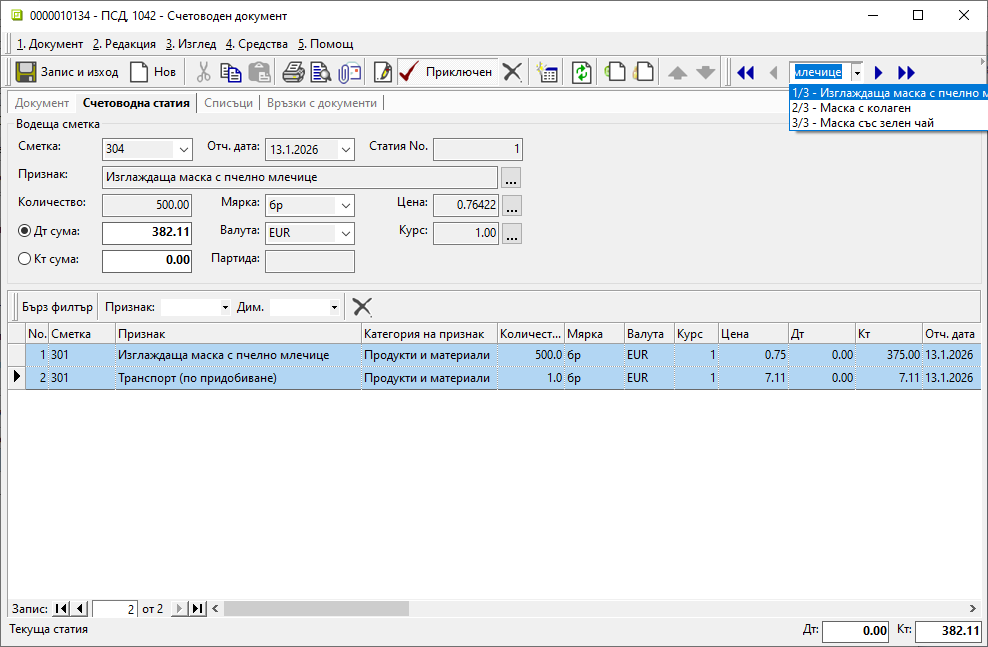
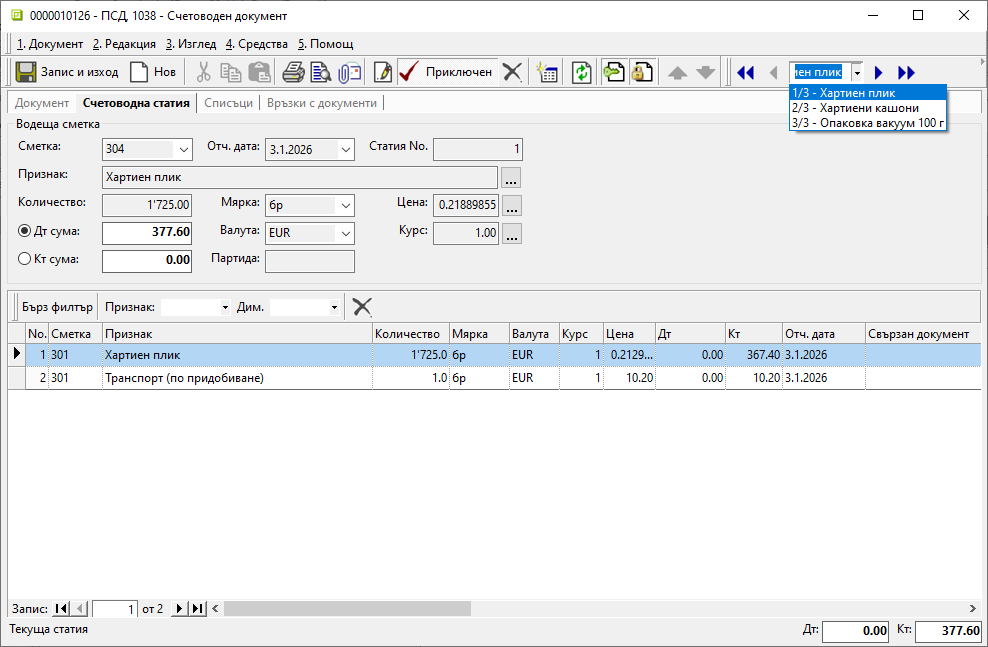
Редактиране линкове и лв.

diff --git a/guide/erp/002-docs/002-trade-system/003-payments/004-bank.md b/guide/erp/002-docs/002-trade-system/003-payments/004-bank.md
@@ -11,17 +11,17 @@
 
 ## **Въведение**
 
-Движенията по банкови сметки се регистрират в системата чрез въвеждане на банкови документи. Системата позволява както ръчно въвеждане на банковите извлечения, така и [импорт](https://docs.unicontsoft.com/guide/erp/005-how-to/001-bank-statement-import.html) на данните. Импортът е възможен, когато има наличен файл с извлечение от банката.  
+Движенията по банкови сметки се регистрират в системата чрез въвеждане на банкови документи. Системата позволява както ръчно въвеждане на банковите извлечения, така и [импорт](../../../005-how-to/001-bank-statement-import.md) на данните. Импортът е възможен, когато има наличен файл с извлечение от банката.  
 
-Извлеченията се въвеждат с отделни записи за всяка една банкова сметка. Сметките трябва да бъдат настроени предварително в **Потребител на продукта** от [**Номенклатури » Контрагенти**](https://docs.unicontsoft.com/guide/erp/001-ref/001-nomenclatures/002-contragents.html). 
+Извлеченията се въвеждат с отделни записи за всяка една банкова сметка. Сметките трябва да бъдат настроени предварително в **Потребител на продукта** от [**Номенклатури » Контрагенти**](../../../001-ref/001-nomenclatures/002-contragents.md).  
 
 ## **Създаване на банков документ**
 
-Процесът по ръчно въвеждане на банков документ е следният:
+Процесът по ръчно въвеждане на банков документ е следният:  
 
 1) От **Търговска система » Банкови документи** чрез десен бутон на мишката върху списъка се избира **Нов документ**. Отваря се празна форма за въвеждане на данни **Банково извлечение**.  
 
-2)  В раздел **Основни** се попълват реквизити:
+2)  В раздел **Основни** се попълват реквизити:  
 
 - **Док. No** - В полето се попълва номер на банковото извлечение. Ако полето се остави празно, системата не попълва автоматичен номер на документа при приключване на извлечението.  
 
@@ -34,11 +34,11 @@
 ![](904-bank1.png){ class=align-center w=15cm }
 
 3) На реда за добавяне на нов запис в поле **Основание за плащане** се отваря падащ списък за избор на предназначение на плащането. Основанията трябва да са предварително дефинирани в **Номенклатури » Референтни номенклатури » Търговска система: Основания за плащане**.  
-Избраното основание определя счетоводната операция, която се генерира при приключване на документа. Необходимо е предварително да бъдат направени настроийки за това от [**Счетоводство » Автоматичен осчетоводител**](https://docs.unicontsoft.com/guide/erp/001-ref/002-accounting/003-acc-wizard.html).  
+Избраното основание определя счетоводната операция, която се генерира при приключване на документа. Необходимо е предварително да бъдат направени настроийки за това в **Счетоводство » Автоматичен осчетоводител**.  
 
 В поле **Контрагент данъчен док.** се избира контрагент, свързан с плащането на реда. Полето се обзавежда автоматично, ако преди това са избрани свързани документи на реда.   
 
-От **Данъчен док.** се отваря форма за избор **Данъчни документи за покупка и продажба**. В списъка с данъчни документи могат да се маркират един или множество записи с покупки и/или продажби. За да се попълнят автоматично и свързаните с тях вътрешнофирмени документи, се използва бутон **[Напред]**.  
+От **Данъчен док.** се отваря форма за избор **Данъчни документи за покупка и продажба**. В списъка с данъчни документи могат да се маркират един или множество записи с покупки и/или продажби. За да се попълнят автоматично и свързаните с тях вътрешнофирмени документи, се използва бутон [**Напред**].  
 По този начин ще се закрият остатъците за плащане по вътрешнофирмения и по данъчния документ.   
 
 Полета **Сума валута** и **Док. сума валута** се попълват със сума, отговаряща на извършеното плащане. Те се обзавеждат автоматично след избор на свързани документи. При частично плащане сумите трябва да се редактират, така че да съответстват на реалното плащане.   
@@ -62,7 +62,7 @@
 
 ![](904-bank2.png){ class=align-center }
 
-За да се генерира коректен счетоводен запис, [**Автоматичен счетоводител**](https://docs.unicontsoft.com/guide/erp/001-ref/002-accounting/003-acc-wizard.html) трябва да е предварително настроен. Свързаният счетоводен документ може да се види от раздел **Връзки с документи**.  
+За да се генерира коректен счетоводен запис, [**Автоматичен счетоводител**](../../../001-ref/002-accounting/003-acc-wizard.md) трябва да е предварително настроен. Свързаният счетоводен документ може да се види от раздел **Връзки с документи**.  
 
 ## **Реквизити**
 
@@ -126,9 +126,6 @@
 
 ## **Свързани статии**
 
-[Как да въведем банкови сметки на контрагент](https://www.unicontsoft.com/cms/node/143)  
-[Как да въведем Начално салдо на банкова сметка](https://www.unicontsoft.com/cms/node/178)  
-[Как да въведем Банково извлечение](https://www.unicontsoft.com/cms/node/38)  
-[Как да въведем Групово плащане](https://www.unicontsoft.com/cms/node/139)  
+[Контрагенти](../../../001-ref/001-nomenclatures/002-contragents.md)  
+[Автоматичен счетоводител](../../../001-ref/002-accounting/003-acc-wizard.md)  
 [Как да импортираме банкови извлечения](../../../005-how-to/001-bank-statement-import.md)  
-[Как да импортираме документи по опис](https://www.unicontsoft.com/cms/node/255)  

diff --git a/guide/erp/002-docs/002-trade-system/003-payments/001-cashdesk.md b/guide/erp/002-docs/002-trade-system/003-payments/001-cashdesk.md
@@ -37,7 +37,7 @@
 
 - **Основание за плащане** – От падащия списък в полето се избира предназначение на плащането.  
 Основанията трябва да са предварително дефинирани в **Номенклатури » Референтни номенклатури » Търговска система: Основания за плащане**.  
-Избраното основание определя счетоводната операция, която се генерира при приключване на документа. Необходимо е предварително да бъдат направени настроийки за това от [**Счетоводство » Автоматичен осчетоводител**](https://docs.unicontsoft.com/guide/erp/001-ref/002-accounting/003-acc-wizard.html).  
+Избраното основание определя счетоводната операция, която се генерира при приключване на документа. Необходими са настроийки за това в **Счетоводство » Автоматичен осчетоводител**.  
 
 - **Свързан док.** - От полето се отваря форма за избор на вътрешнофирмени **Документи за покупка и продажба**. От списъка се маркират един или множество записи, по които е извършено плащане. За да се попълнят автоматично и свързаните с тях данъчни документи, се използва бутон **[Напред]**.  
 По този начин ще се закрият остатъците за плащане по вътрешнофирмения и по данъчния документ.   
@@ -48,7 +48,7 @@
 
 4) Чрез бутон [**Приключен**] от лентата с инструменти документът се валидира и се отваря форма за генерация **Свързани документи**. Системата дава възможност за автоматично създаване на счетоводно записване.  
 
-За да се генерира коректен счетоводен запис, трябва предварително да има съответните настройки в [**Сметкоплан**](https://docs.unicontsoft.com/guide/erp/001-ref/002-accounting/002-chart-of-acc.html) и в [**Автоматичен счетоводител**](https://docs.unicontsoft.com/guide/erp/001-ref/002-accounting/003-acc-wizard.html).  
+> За да се генерира коректен счетоводен запис, трябва предварително да има съответните настройки в [**Сметкоплан**](../../../001-ref/002-accounting/002-chart-of-acc.md) и в [**Автоматичен счетоводител**](../../../001-ref/002-accounting/003-acc-wizard.md).  
 
    - **Генериране на Счетоводно записване** - опция за автоматична генерация на свързан счетоводен документ;  
    Когато за тази опция липсва отметка, системата не генерира счетоводен запис към касовия ордер.  
@@ -120,6 +120,7 @@
 
 ## **Свързани статии**
 
-[Как да въведем Касов ордер](https://www.unicontsoft.com/cms/node/57)  
-[Как да настроим Сметкоплан](../../../001-ref/002-accounting/002-chart-of-acc.md)  
-[Как да настроим Автоматичен осчетоводител](../../../001-ref/002-accounting/003-acc-wizard.md)
+[Референтни номенклатури](../../../001-ref/001-nomenclatures/001-ref-nomenclatures.md)  
+[Връзки между документи](../../001-documents/002-row-crosses.md)  
+[Сметкоплан](../../../001-ref/002-accounting/002-chart-of-acc.md)  
+[Автоматичен осчетоводител](../../../001-ref/002-accounting/003-acc-wizard.md)

diff --git a/guide/erp/004-tips/006-payment-terms.md b/guide/erp/004-tips/006-payment-terms.md
@@ -6,22 +6,23 @@
 
 Системата разполага с различни настройки, касаещи начин на плащане по подразбиране.  
 Едната възможност е за настройка на последния начин на плащане по подразбиране. Системата я прилага отделно за покупки и за продажби. Така в нова покупка или продажба системата предлага последно използвания начин на плащане за съответния тип.  
-Опцията работи, когато за контрагента в документа няма направени индивидуални настройки.  
+
+> Опцията работи, когато за контрагента в документа няма направени индивидуални настройки.  
 
 Друга възможност е индивидуална настройката по контрагенти. В този случай при нов документ системата прилага изрично настроения за контрагента начин на плащане.   
  
 ## Последен начин на плащане
 
-Опцията е достъпна от основното меню в **4.Средства » Настройки...**.  
+Опцията е достъпна от основното меню в **4.Средства » Настройки**.  
 Отваря се форма **Настройки - Dreem Standard**, в която се избира секция **Контейнер**. Настройката се активира/деактивира чрез поставяне/махане на отметка в **Запомняне последен начин на плащане**.  
-Направените промени трябва да бъдат потвърдени с бутон [Ок].
+Направените промени трябва да бъдат потвърдени с бутон [**Ок**].
 
 ![](906-payment-terms1.png){ class=align-center }
 
 ## Начин на плащане по контрагент
 
-Настройката е достъпна във форма за редакция на **Контрагент** в панел **Допълнителни » Реквизити: Продажби**. При нея системата ще предлага този начин на плащане, когато за избрания контрагент се създава нова продажба.  
-Направените промени трябва да бъдат потвърдени с бутон [Запис и изход].  
+Настройката е достъпна от форма за редакция на **Контрагент** в раздел **Допълнителни » Реквизити: Продажби**. При нея системата ще предлага този начин на плащане, когато за избрания контрагент се създава нова продажба.  
+Направените промени трябва да бъдат потвърдени с бутон [**Запис и изход**].  
 
 ![](906-payment-terms2.png){ class=align-center w=15cm }
 

diff --git a/guide/erp/005-how-to/004-allocate-acquisition-costs.md b/guide/erp/005-how-to/004-allocate-acquisition-costs.md
@@ -147,24 +147,24 @@
 **ФПок (доставка на стоки)**
 ```{admonition} Статия
 |Д<sup>т</sup> Сметка|К<sup>т</sup> Сметка|Признак|Сума|
-|-------------|------------|---------------|-------------|
-|301          |            |Шампоан 150 мл |750.00 лв.   |
-|301          |            |Шампоан 530 мл |1666.67 лв.  |
-|301          |            |Шампоан 150 мл |1333.33 лв.  |
-|4531         |            |               |750.00 лв.   |  
-|             |4011        |               |4500.00 лв.  |
+|-------------|------------|----------------------|---------|
+|301          |            |Хартиен плик          |357.20   |
+|301          |            |Хартиени кашони       |1086.49  |
+|301          |            |Опаковка вакуум 100 г |15.00    |
+|4531         |            |                      |291.74   |  
+|             |4011        |                      |1750.43  |
 ```
 
 - При осчетоводяването на фактурата за транспорт, като разход за разпределение, отново участва транзитната сметка.  
-Сумата от нея - 83.33 лв., ще бъде разпределена към доставната стойност на продуктите.
+Сумата от нея - 41.67 евро, ще бъде разпределена към доставната стойност на продуктите.
 
 **ФПок (разходи за разпределение)**
 ```{admonition} Статия
 |Д<sup>т</sup> Сметка|К<sup>т</sup> Сметка|Признак|Сума|
-|-------------|------------|----------|-----------|
-|301          |            |Транспорт |83.33 лв.  |
-|4531         |            |          |16.67 лв.  |  
-|             |4011        |          |100.00 лв. |
+|-------------|------------|----------|-------|
+|301          |            |Транспорт |41.67  |
+|4531         |            |          |8.33   |  
+|             |4011        |          |50.00  |
 ```
 
 - Същинското разпределение на разходи става в *ПСД*. В този счетоводен документ за всеки продукт се генерира отделна статия.  
@@ -173,10 +173,10 @@
  **ПСД (доставка на стоки)**
 ```{admonition} Статия 1
 |Д<sup>т</sup> Сметка|К<sup>т</sup> Сметка|Признак|Сума|
-|-------------|------------|---------------|-----------|
-|304          |            |Шампоан 150 мл |766.67 лв. |
-|             |301         |Шампоан 150 мл |750.00 лв. |  
-|             |301         |Транспорт      |16.67 лв.  |
+|-------------|------------|---------------|--------|
+|304          |            |Хартиен плик   |377.60  |
+|             |301         |Хартиен плик   |367.40  |  
+|             |301         |Транспорт      |10.20   |
 ```
 
 ![](904-allocate-acquisition-costs17.png){ class=align-center w=15cm }

diff --git a/guide/erp/001-ref/001-nomenclatures/005-price-lists.md b/guide/erp/001-ref/001-nomenclatures/005-price-lists.md
@@ -59,8 +59,9 @@
     - **Автоматична генерация** - опция, която се активира, когато в списъка в раздел Основни няма записи; 
     Разрешава или забранява автоматичната генерация на цени при модификация на родителска ценовата листа, при приключване на складови документи или покупка.  
     - **Закръгляване** - поле за избор на начин на закръгляване на цени от Референтни номенклатури | Закръглявания на цени, което се използва при ръчно или автоматично ценообразуване.  
-    - **Дименсия групи** - поле за избор на дименсия, по която да се настройва *Ценообразуване по групи* в раздел **Списъци**.
-    - **Превалутиране в лв.** - разрешава или забранява конвертиране на валутни цени (от покупки) в национална валута при ценообразуване.  
+    - **Дименсия групи** - поле за избор на дименсия, по която да се настройва *Ценообразуване по групи* в раздел **Списъци**.  
+    - **В основна мярка** - указва дали да генерира цени в основна мярка при ценообразуване;  
+    - **Превалутиране** - разрешава или забранява конвертиране на валутни цени (от покупки) в национална валута при ценообразуване.  
 
     ![Ценообразуване](905-price-list2.png){ class=align-center w=15cm }
 
@@ -150,7 +151,7 @@
    - **Дименсия групи** - поле за избор от списък с дименсии;  
    Указва дименсия, по която се настройва *Ценообразуване по групи* в раздел *Списъци*.   
    - **В основна мярка** - с *Да/Не* се указва дали при ценообразуване да се генерират цени в основна мярка;  
-   - **Превалутиране в лв.** - с *Да/Не* се указва дали да се генерират цени в избраната валута при ценообразуване.  
+   - **Превалутиране** - с *Да/Не* се указва дали да се генерират цени в избраната валута при ценообразуване.  
    - **Курс** - попълва се курс при генериране на цени във валута;  
 
    **Реквизити: Транспорт**  

diff --git a/guide/erp/004-tips/004-doc-states.md b/guide/erp/004-tips/004-doc-states.md
@@ -6,22 +6,22 @@
 
 Документите в системата имат три състояния - **Редакция**, **Приключен** и **Анулиран**. Те определят степента им на завършеност и валидността им по отношение на справките.  
 
-В общия случай анулираните документи и тези в състояние на редакция не участват в справки. Изключения правят няколко специфични справки.   
+> В общия случай анулираните документи и тези в състояние на редакция не участват в справки. Изключения правят няколко специфични справки.   
 
 1) **Редакция** — неактивна чернова;  
-Документите в редакция са т.нар. чернови, които са неактивни за печат от форма за редакция и не участват в справки. Могат да бъдат разпечатани от списък с документи.  
-При запис получават служебни номера като E1, E2 и т.н.  
+Документите в редакция са т.нар. чернови, които не участват в справки.    
 
 ![](904-doc-states1.png){ class=align-center w=15cm }
 
 2) **Приключен** — валиден документ;  
-Това са активните документи в система, които са валидни за печат и справки.  
+Това са активните документи в системата, които са валидни за всички справки.  
 При валидиране всеки документ получава пореден номер в системата според дефинираните в **Номератори**.  
 
 ![](904-doc-states2.png){ class=align-center w=15cm }
 
 3) **Анулиран** —  отменен и унищожен;  
-Документи в системата, които са унищожени по някаква причина и придобиват неактивно състояние. Анулираните документи не участват в справки, но са активни за печат.  
+Това са документи, които по някаква причина са унищожени и придобиват неактивно състояние.  
+Анулираните документи не участват в справки.  
 Системата не променя номерата на документите при анулирането им.  
 
 ![](904-doc-states3.png){ class=align-center w=15cm }

diff --git a/guide/erp/002-docs/002-trade-system/003-payments/002-transfer-cashdesk.md b/guide/erp/002-docs/002-trade-system/003-payments/002-transfer-cashdesk.md
@@ -41,7 +41,7 @@
 ![](902-transfer-cashdesk1.png){ class=align-center w=15cm }
 
 3) На реда за нов запис в поле **Основание за плащане** се избира настроеното основание за трансфер на средства между каси. Основанията трябва да са предварително дефинирани в **Номенклатури » Референтни номенклатури » Търговска система: Основания за плащане**.  
-Избраното основание определя счетоводната операция, която се генерира при приключване на документа. Необходимо е предварително да бъдат направени настроийки за това от [**Счетоводство » Автоматичен осчетоводител**](https://docs.unicontsoft.com/guide/erp/001-ref/002-accounting/003-acc-wizard.html).  
+Избраното основание определя счетоводната операция, която се генерира при приключване на документа. Необходимо е предварително да бъдат направени настроийки за това от **Счетоводство » Автоматичен осчетоводител**.  
 
    В полета **Сума валута** и **Док. сума валута** се посочва стойността на парични трансфер.  
 
@@ -64,7 +64,8 @@
  
 ## **Свързани статии**
 
-[Как да прехвърлим средства между портфейли](https://www.unicontsoft.com/cms/node/58)  
-[Как да настроим Сметкоплан](../../../001-ref/002-accounting/002-chart-of-acc.md)  
-[Как да настроим Автоматичен осчетоводител](../../../001-ref/002-accounting/003-acc-wizard.md)
-  
+[Референтни номенклатури](../../../001-ref/001-nomenclatures/001-ref-nomenclatures.md)  
+[Касов документ](001-cashdesk.md)  
+[Сметкоплан](../../../001-ref/002-accounting/002-chart-of-acc.md)  
+[Автоматичен осчетоводител](../../../001-ref/002-accounting/003-acc-wizard.md)  
+   

diff --git a/guide/erp/002-docs/002-trade-system/001-orders-sales-purchase-documents/008-advances.md b/guide/erp/002-docs/002-trade-system/001-orders-sales-purchase-documents/008-advances.md
@@ -16,7 +16,7 @@
 Платен аванс от клиент/към доставчик се регистрира в системата чрез документ тип **Продажба**/**Покупка**. Следват се стъпките за създаване на стандартните документи. Единствената особеност е използването на продукт **Аванс**.  
 
 > Продукт **Аванс** е системно въведен и настроен и не се редактира или изтрива.  
-Той е със заложена цена от 1.00 лв. (с ДДС), затова сумата на аванса (с ДДС) се въвежда и променя от колона **Количество**.   
+Той е със заложена цена от 1.00 евро (с ДДС), затова сумата на аванса (с ДДС) се въвежда и променя от колона **Количество**.   
 
 ## **Регистриране на аванс**
 
@@ -43,7 +43,7 @@
 
 ![](908-advances1.png){ class=align-center w=15cm }
 
-- **Продукт/материал** - В полето задължително се избира продукт **Аванс**. Тъй като цената му е системно настроена - 1.00 лв. с ДДС, автоматично се обзавеждат и полета **Цена** и **Цена с ДДС**.  
+- **Продукт/материал** - В полето задължително се избира продукт **Аванс**. Тъй като цената му е системно настроена - 1.00 евро с ДДС, автоматично се обзавеждат и полета **Цена** и **Цена с ДДС**.  
 
 - **Количество** - В това поле се попълва сума с ДДС на получения аванс.  
 

diff --git a/guide/erp/004-tips/005-act-doc-edit.md b/guide/erp/004-tips/005-act-doc-edit.md
@@ -4,11 +4,12 @@
 
 # **Корекция приключен документ**
 
-Често - заради пропуск или грешка, се налага корекция на вече валидиран в системата документ. Корекции могат да бъдат нанесени чрез връщане на документа в редакция. Това дава достъп до пълното съдържание на документа.  
+Често - заради пропуск или грешка, се налага редактиране на вече валидиран в системата документ.  
+Корекции могат да бъдат нанесени чрез връщане на документа в редакция. Това дава достъп до пълното съдържание на документа.  
 
-Друг вариант за редактиране е използването на вградения инструмент **Корекция приключен документ**. Това не изисква промяна в състоянието на документа. В този случай са достъпни за корекция само определени реквизити от документа.  
+Друг вариант за редактиране е използването на вградения инструмент **Корекция приключен документ**. Той се намира в меню **Средства** от форма за редакция на документ.  
 
-Опцията е достъпна от меню **Средства** във форма за редакция на документ.  
+> В този случай не се изисква промяна в състоянието на документа.   
 
 ![](905-act-doc-edit1.png){ class=align-center }
 

diff --git a/guide/erp/004-tips/007-def-quantity.md b/guide/erp/004-tips/007-def-quantity.md
@@ -4,10 +4,11 @@
 
 # **Количество по подразбиране**
 
-При създаване на нов документ - покупка, продажба, складов документ, системата автоматично обзавежда колона **Количество**. 
-Първоначалната системна настройка за количество по подразбиране е **0**. По желание настройката може да бъде променена. 
+При създаване на нов документ (напр. покупка, продажба, складов документ) системата автоматично обзавежда колона **Количество**.  
 
-Опцията е достъпна от основното меню **4.Средства » Настройки...**.  
+Първоначалната системна настройка за количество по подразбиране е **0 (нула)**. По желание настройката може да бъде променена. 
+
+Опцията е достъпна от основното меню **4.Средства » Настройки**.  
 Отваря се форма **Настройки - Dreem Standard**, в която се избира секция **Контейнер**.  
 Желаното количество се въвежда в полето при **Количество по подразбиране**.  
 Направените промени трябва да бъдат потвърдени с бутон [**Ок**].

diff --git a/guide/pos/002-pos-docs/007-pos-advances.md b/guide/pos/002-pos-docs/007-pos-advances.md
@@ -9,7 +9,7 @@
 
 Документът за получен аванс се регистрира, като следва същият ред като [продажба](002-pos-sales-doc.md) - за нерегистрирани контрагенти, или като [продажба с клиентска карта](004-cp-sales.md) - за въведени в системата контрагенти.  
 
-> Продукт *Аванс* е системно въведен със заложена цена от 1.00 лв. (с ДДС). Затова сума с ДДС на получения аванс от клиент се въвежда и променя от поле Количество.   
+> Продукт *Аванс* е системно въведен със заложена цена от 1.00 евро (с ДДС). Затова сума с ДДС на получения аванс от клиент се въвежда и променя от поле Количество.   
 
 От новия ред за добавяне на продукти в продажбата се въвежда *Аванс*.  
 Количество и партида на аванса се въвеждат от форма **Редакция**. Тя се отваря чрез клавиш [**F4**] или от бутона *Редакция на цена на реда* в основното меню. От формата могат да бъдат добавени също допълнителен текст и забележка на реда. 

diff --git a/guide/erp/002-docs/002-trade-system/003-payments/003-offsets.md b/guide/erp/002-docs/002-trade-system/003-payments/003-offsets.md
@@ -59,5 +59,7 @@
     
 ## **Свързани статии**
 
-[Създаване на касов документ](001-cashdesk.md)  
-[Как да създадем Протокол за прихващане](https://www.unicontsoft.com/cms/node/35)  
+[Референтни номенклатури](../../../001-ref/001-nomenclatures/001-ref-nomenclatures.md)  
+[Касов документ](001-cashdesk.md)  
+[Сметкоплан](../../../001-ref/002-accounting/002-chart-of-acc.md)  
+[Автоматичен осчетоводител](../../../001-ref/002-accounting/003-acc-wizard.md)  
